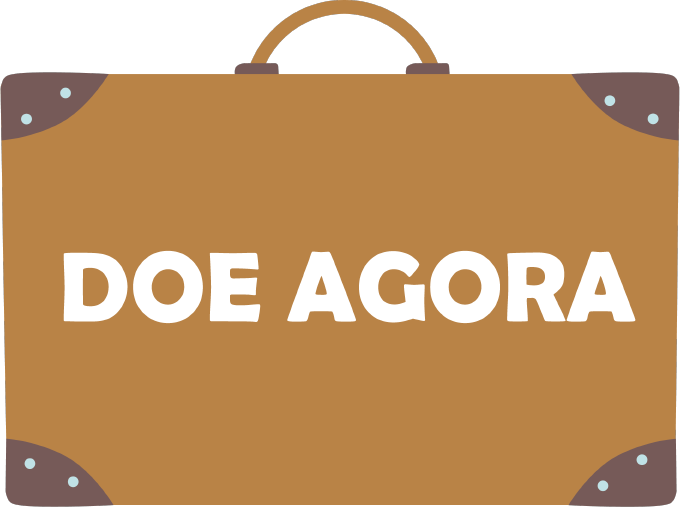
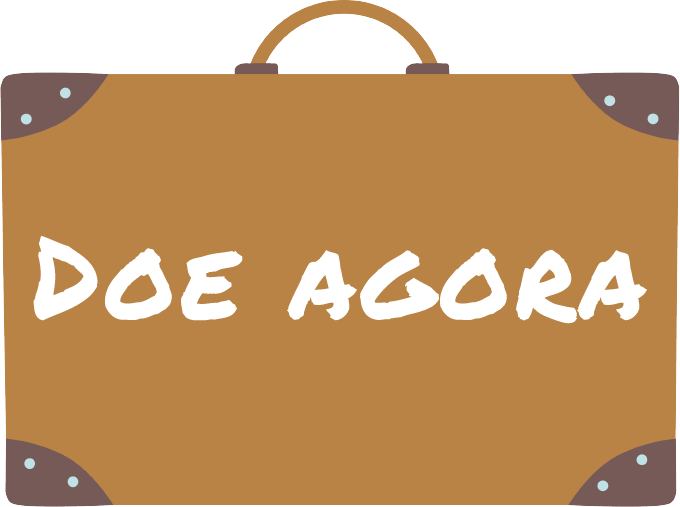
teste fontes

diff --git a/css/styles.css b/css/styles.css
@@ -39,11 +39,11 @@
   --breakpoint-md: 768px;
   --breakpoint-lg: 992px;
   --breakpoint-xl: 1200px;
-  --font-family-sans-serif: -apple-system, BlinkMacSystemFont, "Segoe UI",
+  /* --font-family-sans-serif: -apple-system, BlinkMacSystemFont, "Segoe UI",
     Roboto, "Helvetica Neue", Arial, "Noto Sans", sans-serif,
     "Apple Color Emoji", "Segoe UI Emoji", "Segoe UI Symbol", "Noto Color Emoji";
   --font-family-monospace: SFMono-Regular, Menlo, Monaco, Consolas,
-    "Liberation Mono", "Courier New", monospace;
+    "Liberation Mono", "Courier New", monospace; */
 }
 
 *,
@@ -53,7 +53,7 @@
 }
 
 html {
-  font-family: sans-serif;
+  /* font-family: sans-serif; */
   line-height: 1.15;
   -webkit-text-size-adjust: 100%;
   -webkit-tap-highlight-color: rgba(0, 0, 0, 0);
@@ -74,9 +74,10 @@ section {
 
 body {
   margin: 0;
-  font-family: "Muli", -apple-system, BlinkMacSystemFont, "Segoe UI", Roboto,
+
+  /* font-family: "Muli", -apple-system, BlinkMacSystemFont, "Segoe UI", Roboto,
     "Helvetica Neue", Arial, sans-serif, "Apple Color Emoji", "Segoe UI Emoji",
-    "Segoe UI Symbol", "Noto Color Emoji";
+    "Segoe UI Symbol", "Noto Color Emoji"; */
   font-size: 1rem;
   font-weight: 400;
   line-height: 1.5;
@@ -84,6 +85,16 @@ body {
   background-color: #ffffff;
   padding-top: 3rem;
   color: #5a5a5a;
+}
+
+h1,
+h2,
+h3,
+h4,
+h5,
+h6 {
+  font-family: "Permanent Marker", cursive;
+  color: var(--secondary);
 }
 
 .btn-primary {
@@ -335,6 +346,8 @@ body {
   border: 3px solid transparent;
   margin-left: 25px;
   margin-right: 25px;
+  font-family: "Permanent Marker", cursive;
+  color: var(--secondary);
 }
 
 .active {
@@ -489,6 +502,7 @@ a {
   top: 80%;
   color: #fff;
   text-align: center;
+  font-family: "Permanent Marker", cursive;
 }
 
 .painel-titulo {

diff --git a/colabore.html b/colabore.html
@@ -15,6 +15,10 @@
     <!-- Custom styles for this template -->
     <link href="css/card.css" rel="stylesheet" />
     <link href="css/styles.css" rel="stylesheet" />
+
+    <link rel="preconnect" href="https://fonts.googleapis.com"> 
+    <link rel="preconnect" href="https://fonts.gstatic.com" crossorigin> 
+    <link href="https://fonts.googleapis.com/css2?family=Permanent+Marker&display=swap" rel="stylesheet">
   </head>
   <body id="page-top">
     <header>
@@ -140,7 +144,7 @@
       </nav>
       <div class="painel-titulo-colabore painel-titulo">
         <div class="painel-titulo-caption">
-          <h1 class="display-4 fw-normal">Colabore</h1>
+          <h1 class="display-4 fw-normal">COLABORE</h1>
         </div>
       </div>
     </header>
